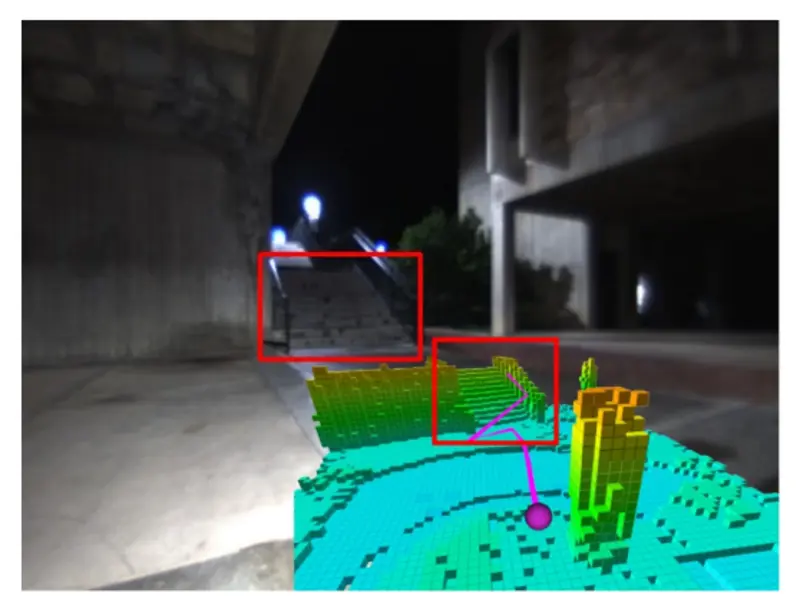
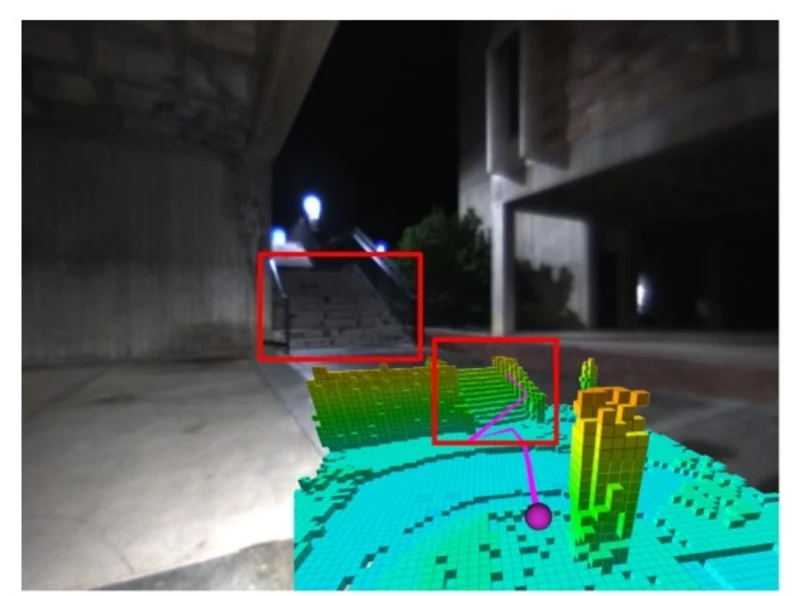
Deploying to gh-pages from @ ajaymopidevi/ajay@e1018222b2342e1254a1d8ab970cc6a0e0879f5c 🚀

Changed region(s): [[0.5312, 0.6644, 0.7188, 0.8456]]

diff --git a/projects/index.html b/projects/index.html
@@ -200,7 +200,7 @@
     
 
     <!-- Fallback to the original file -->
-    <img src="/assets/img/9.png" width="auto" height="auto" alt="project thumbnail" onerror="this.onerror=null; $('.responsive-img-srcset').remove();">
+    <img src="/assets/img/9.jpg" width="auto" height="auto" alt="project thumbnail" onerror="this.onerror=null; $('.responsive-img-srcset').remove();">
 
   </picture>
 
